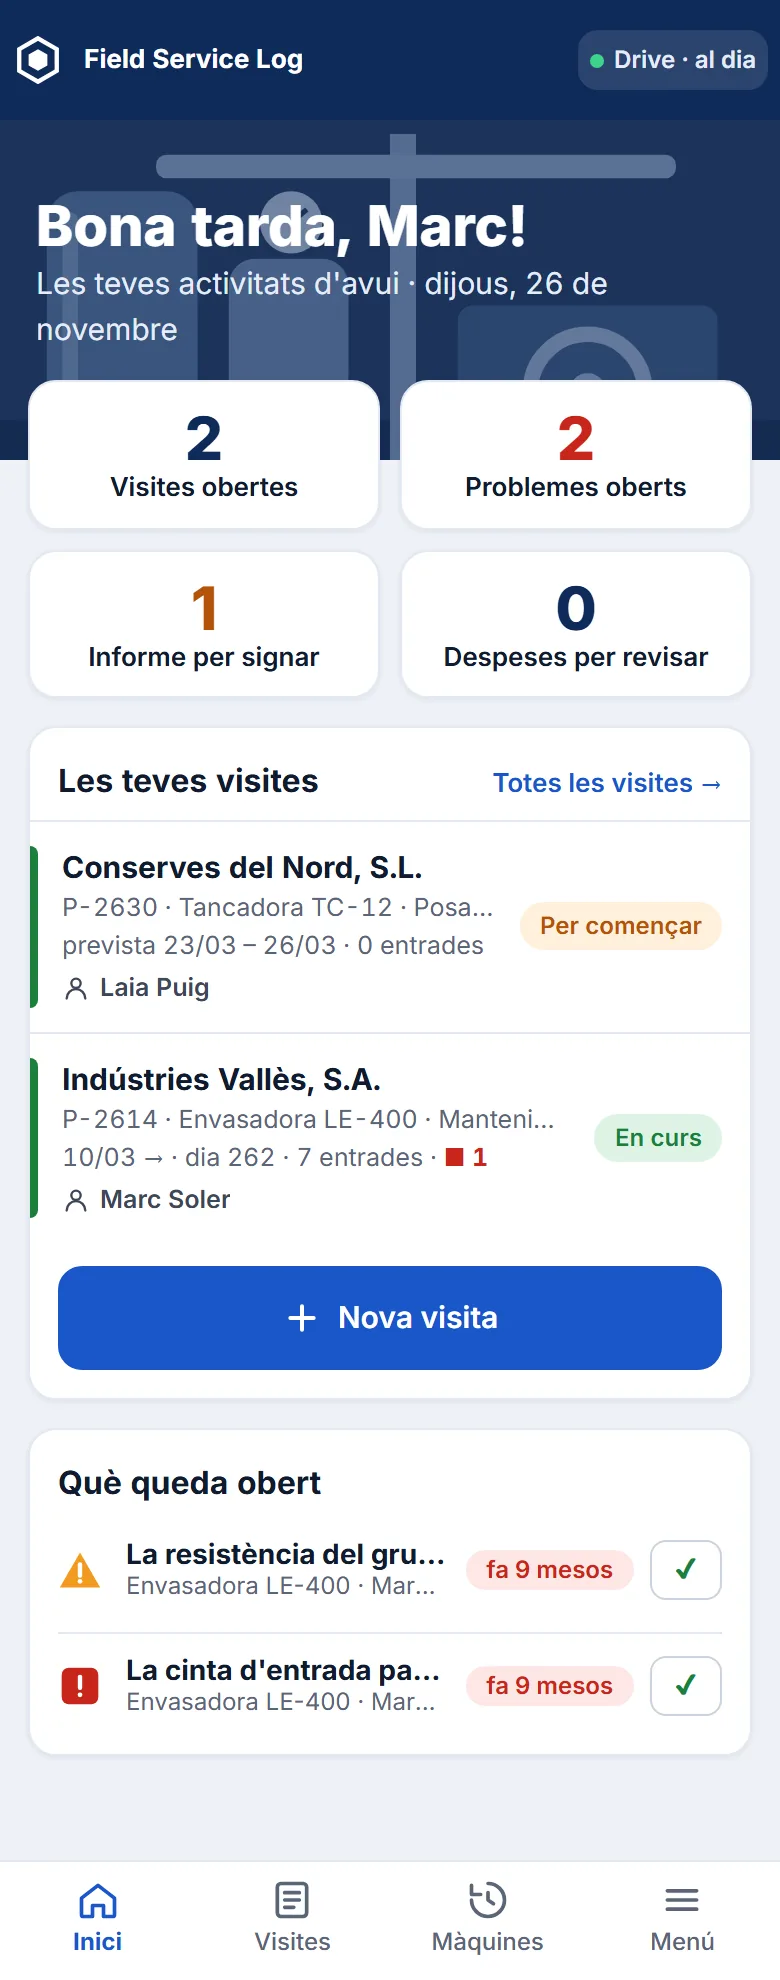
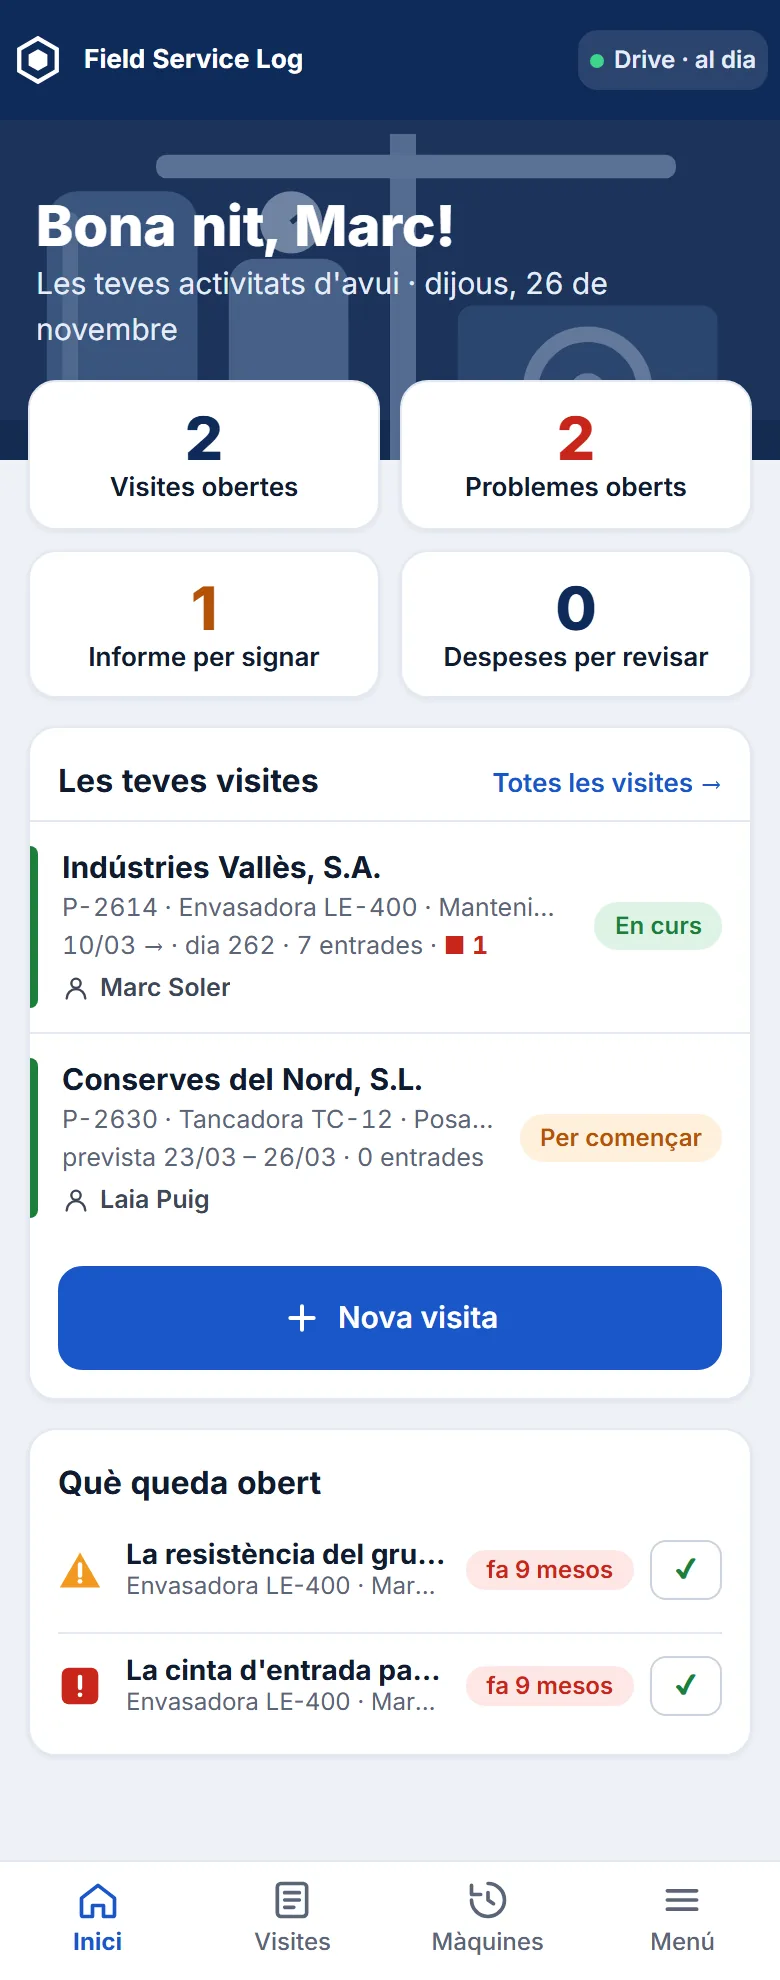
Les visites, de la més antiga a la més nova
Les llistes de visites anaven de la més nova a la més antiga pel dia
que s'havia creat la fitxa. Ara van en ordre ascendent per la data que
ensenya cada visita: el primer dia previst mentre no ha començat, i la
data d'inici de l'informe des que comença.

Val per a la pàgina Visites i el seu cercador, la finestra d'arxivar i
les llistes d'Inici. A Inici surten primer les obertes i, si en queden
menys de quatre, les últimes tancades.

L'historial de la màquina no canvia. El manual i les seves captures,
al dia.

Changed region(s): [[0.0923, 0.4313, 0.9231, 0.6162], [0.2462, 0.0924, 0.6769, 0.1232]]

diff --git a/index.html b/index.html
@@ -6926,10 +6926,10 @@ function renderSidebar(){
   if(!S.length){$$("sideCount").textContent=nvT("Visites")+" (0)";list.innerHTML="<div style=\"font-size:12px;color:var(--tx3);padding:20px 10px;text-align:center\">Encara no hi ha cap sessió.<br>Crea'n una de nova.</div>";return}
 
   var q=sessFilterTxt.trim().toLowerCase();
-  // Newest first, by the session's start date — the one the reports print as
-  // "Inici". Only the list is sorted: the array keeps its own order. An import
-  // used to land its sessions wherever the file had them.
-  var ordered=S.slice().sort(function(a,b){return String(b.createdAt||"").localeCompare(String(a.createdAt||""))});
+  // Oldest first, by the date the row shows (sessByWhen): the planned day
+  // until the visit begins, the report's "Inici" from then on. Only the list
+  // is sorted: the array keeps its own order.
+  var ordered=S.slice().sort(sessByWhen);
   if(!q){
     $$("sideCount").textContent=nvT("Visites")+" ("+S.length+")";
     ordered.forEach(function(s){list.appendChild(buildSitem(s))});
@@ -9158,7 +9158,7 @@ function openM2More(){
 // Which version this device is running — shown in the sidebar, so a phone
 // still on an old copy from its cache can be told apart from one that has the
 // fix. Bump it with every change that goes out.
-var APP_VERSION="2026-11-26 · 2";
+var APP_VERSION="2026-11-26 · 3";
 function verLine(){
   var v=$$("appVer");if(!v)return;
   var w=licWords();
@@ -9900,7 +9900,7 @@ function openBulkArchive(asPage){
 function bulkFill(){
   var was={};
   Array.prototype.forEach.call($$("bulkList").querySelectorAll("input[type=checkbox]:checked"),function(c){was[c.dataset.id]=1});
-  var list=sessions.slice().sort(function(a,b){return String(b.createdAt||"").localeCompare(String(a.createdAt||""))});
+  var list=sessions.slice().sort(sessByWhen);
   $$("bulkNote").innerHTML="Cada sessió marcada surt com el seu <strong>ZIP del projecte</strong>"
     +(arxDir&&fsaOK()?" a <code>"+esc(arxDir.name)+"</code>":" "+uiT("a Baixades"))
     +uiT(", en l'idioma del seu informe. Si una sessió ja tenia el ZIP d'aquesta mateixa revisió a la carpeta d'arxiu, se substitueix.");
@@ -13495,6 +13495,28 @@ function sessionEndDate(s){
   var es=(s&&s.entries)||[];
   for(var i=es.length-1;i>=0;i--){if(es[i]&&es[i].ts)return String(es[i].ts).slice(0,10)}
   return String((s&&s.createdAt)||now()).slice(0,10);
+}
+// THE ORDER OF EVERY LIST OF VISITS (2026-11-26 · 3). The user: "I want the
+// visits shown in ascending order. By planned dates, and once it starts by the
+// report's date." Until then every list was newest first by `createdAt`, the
+// day the record was written — which for a visit the office prepares weeks
+// ahead says nothing about when it happens.
+//   · not begun (no entry, no start typed in) and carrying planned days: the
+//     first planned day (`order.from`, or `order.to` when only that is set);
+//   · otherwise: the day the report prints as "Inici" (sessionStartTs).
+// It is the same test buildSitem makes to choose between "prevista 03/12" and
+// the visit's own dates, so a row is sorted by the date it shows. Oldest
+// first; the same day, by the hour of the start and then by when the record
+// was made, so the order does not jump between two paints.
+function sessWhen(s){
+  var o=s&&s.order;
+  if(o&&(o.from||o.to)&&!((s.entries||[]).length)&&!s.startAt)return String(o.from||o.to).slice(0,10);
+  return String(sessionStartTs(s)||"").slice(0,10);
+}
+function sessByWhen(a,b){
+  return sessWhen(a).localeCompare(sessWhen(b))
+    ||String(sessionStartTs(a)||"").localeCompare(String(sessionStartTs(b)||""))
+    ||String(a.createdAt||"").localeCompare(String(b.createdAt||""));
 }
 // FROZEN with Rev. 01: every revision of one report has to share a base name,
 // or the numbering can't tell that rev01 and rev02 are the same document. The
@@ -21002,8 +21024,8 @@ function nvHomeRender(mc){
   var loc=uiLang()==="ca"?"ca-ES":uiLang(),day="";
   try{day=new Date().toLocaleDateString(loc,{weekday:"long",day:"numeric",month:"long"})}catch(e){}
   function stat(k,n,one,many,cls){return "<button type=\"button\" class=\"nv-card nv-stat "+(n?cls:"")+"\" data-st=\""+k+"\"><b>"+n+"</b><span>"+esc(nvT(n===1?one:many))+"</span></button>"}
-  var news=S.filter(function(s){return ordState(s)});
-  var held=tec?[]:S.filter(function(s){return s.status==="open"&&s.order&&s.order.hold});
+  var news=S.filter(function(s){return ordState(s)}).sort(sessByWhen);
+  var held=tec?[]:S.filter(function(s){return s.status==="open"&&s.order&&s.order.hold}).sort(sessByWhen);
   var page=document.createElement("div");page.className="nv-page";
   page.innerHTML="<div class=\"nv-hero\">"+NV_ART+"<div class=\"ov\"><div class=\"top\"><button type=\"button\" class=\"nv-chip\"></button></div>"
       +"<div class=\"hi\">"+esc(hi)+"</div><div class=\"sub\">"+esc(nvT("Les teves activitats d'avui")+(day?" · "+day:""))+"</div></div></div>"
@@ -21057,10 +21079,13 @@ function nvHomeRender(mc){
   mc.innerHTML="";mc.appendChild(page);
   var list=$$("nvHomeList");
   if(list){
-    S.slice().sort(function(a,b){
-      var oa=a.status==="open"?0:1,ob=b.status==="open"?0:1;
-      return oa-ob||String(b.createdAt||"").localeCompare(String(a.createdAt||""));
-    }).slice(0,4).forEach(function(s){list.appendChild(buildSitem(s))});
+    // four rows: the open visits first, oldest first like every list; what is
+    // left of the four goes to the closed ones, and of those the LATEST — the
+    // oldest closed visits of the device are not what this page is for — in
+    // the same ascending order
+    var hOp=S.filter(function(x){return x.status==="open"}).sort(sessByWhen).slice(0,4);
+    var hCl=S.filter(function(x){return x.status!=="open"}).sort(sessByWhen);
+    hOp.concat(hOp.length<4?hCl.slice(hOp.length-4):[]).forEach(function(s){list.appendChild(buildSitem(s))});
   }
   function on(id,fn){var el=$$(id);if(el)el.addEventListener("click",fn)}
   on("nvAll",function(){nvGo("visits")});

diff --git a/manual.html b/manual.html
@@ -174,7 +174,7 @@
 </figure>
 
 <h3>La llista de visites</h3>
-<p>A <strong>Visites</strong> hi ha totes les visites, <strong>de la més nova a la més antiga</strong>. Cada una mostra el client, el projecte, la màquina i el tipus, les dates, quantes entrades té, quants problemes i si està en curs o tancada; amb llicència d'administrador, també el nom del tècnic. El quadre «Filtra les sessions…» busca pel client, la màquina, el projecte, el tècnic i la ubicació, i també dins del text de totes les entrades: les entrades que coincideixen surten a sota de la seva visita i s'hi pot anar directament.</p>
+<p>A <strong>Visites</strong> hi ha totes les visites, <strong>de la més antiga a la més nova</strong>, per la data que ensenya cada una: una visita que encara no ha començat va pel primer dia previst («prevista 01/12»), i des que comença, per la data d'inici del seu informe. Així les visites preparades per a més endavant queden al final, per ordre de calendari. A <strong>Inici</strong> hi ha quatre visites amb el mateix ordre: primer les obertes i, si en queden menys de quatre, les últimes tancades. Cada una mostra el client, el projecte, la màquina i el tipus, les dates, quantes entrades té, quants problemes i si està en curs o tancada; amb llicència d'administrador, també el nom del tècnic. El quadre «Filtra les sessions…» busca pel client, la màquina, el projecte, el tècnic i la ubicació, i també dins del text de totes les entrades: les entrades que coincideixen surten a sota de la seva visita i s'hi pot anar directament.</p>
 
 <h3>La fitxa de la visita</h3>
 <p>Una visita s'obre per la seva <strong>fitxa</strong>: el client i la ubicació, la foto de la visita i les dades. Té tres pestanyes: <strong>Detalls</strong>, <strong>Equip</strong> (la màquina, amb els botons del manual de recanvis, els dibuixos i els comptadors) i <strong>Historial</strong>, que obre l'<a href="#historial">historial de la màquina</a>. «Veure més» ensenya la resta de dades i les notes generals. Si la màquina ja s'havia visitat, a sota surt l'<strong>última intervenció</strong> i si hi va quedar res obert.</p>
@@ -664,7 +664,7 @@ P-2026-171 Taxi - VTC (2) comprovant.jpg</pre>
 <h3>Arxivar diverses visites de cop</h3>
 <p>A l'ordinador, <strong>Arxiu</strong>, a la barra de l'esquerra; al mòbil, Menú › <span class="btn">Arxiva visites…</span>. Arxivar és feina de l'administrador: amb llicència de tècnic no hi surt.</p>
 <ol>
-  <li>Surten totes les visites, de la més nova a la més antiga, amb el projecte, les dates, la revisió, si està oberta o tancada, i si ja té el ZIP al dia.</li>
+  <li>Surten totes les visites, de la més antiga a la més nova, amb el projecte, les dates, la revisió, si està oberta o tancada, i si ja té el ZIP al dia.</li>
   <li>Marca les acabades (o <span class="btn">Totes</span> / <span class="btn">Cap</span>).</li>
   <li>Deixa marcat <strong>«Esborra-les de l'aplicació un cop arxivades»</strong> per treure-les de l'app, o desmarca-ho per fer només els ZIP.</li>
   <li><span class="btn">🗄 Arxiva i esborra N sessions</span>.</li>

diff --git a/CONTEXT.md b/CONTEXT.md
@@ -3941,6 +3941,34 @@ gives the drawings; another manual cannot be linked; the two messages),
 owner (everything). The generator shows the tick. NOT checked: a real
 licence, real Drive, the viewer actually opening a PDF under these rules.
 
+**The lists of visits run oldest first (version `2026-11-26 · 3`).** The user:
+"I want the visits shown in ascending order. By planned dates, and once it
+starts by the report's date." Every list used to be newest first by
+`createdAt` (the day the record was written), which says nothing about when
+a visit prepared weeks ahead happens.
+- `sessWhen(s)` is the day a visit is sorted by: not begun (no entry, no
+  start typed in) and with planned days, `order.from` (or `order.to` if only
+  that is set); otherwise the day of `sessionStartTs` — the report's
+  "Inici". It is the same test `buildSitem` makes to print "prevista 03/12"
+  or the visit's own dates, so a row is sorted by the date it shows.
+  `sessByWhen(a,b)` compares it ascending, then the start's hour, then
+  `createdAt`.
+- Used by: the Visites page and its search (`renderSidebar`), the window
+  that archives (`bulkFill`), and on the home page the cards "Tens visites
+  encarregades" and "Preparades, per enviar" and the four-row list.
+- **The home list is my reading:** open visits first, oldest first; the rows
+  left of the four go to the LATEST closed ones, in the same ascending
+  order (plain ascending would have shown the device's oldest closed
+  visits there). Told him.
+- Left newest first on purpose, and told him: the machine's history
+  (timeline of visits, parts fitted) and the Machines page. The list
+  "Parteix d'una visita anterior" stays by client and machine.
+Checked in the preview with eight made-up visits: planned ones after the
+started ones and in calendar order, a visit planned for December but begun
+in November sorted by its November start, one with no planned days by the
+day it was made; search, archive window, the two cards and the home list
+with more and fewer than four open visits. NOT checked with his real data.
+
 **The day of the switch (as it was planned):** set `SEPARAT` to false, move `nou/index.html` and
 `nou/sw.js` to the root — **and the manifest and the three icons with them**,
 over the root's own (drop "· nou" from the manifest's names; the app's icon
